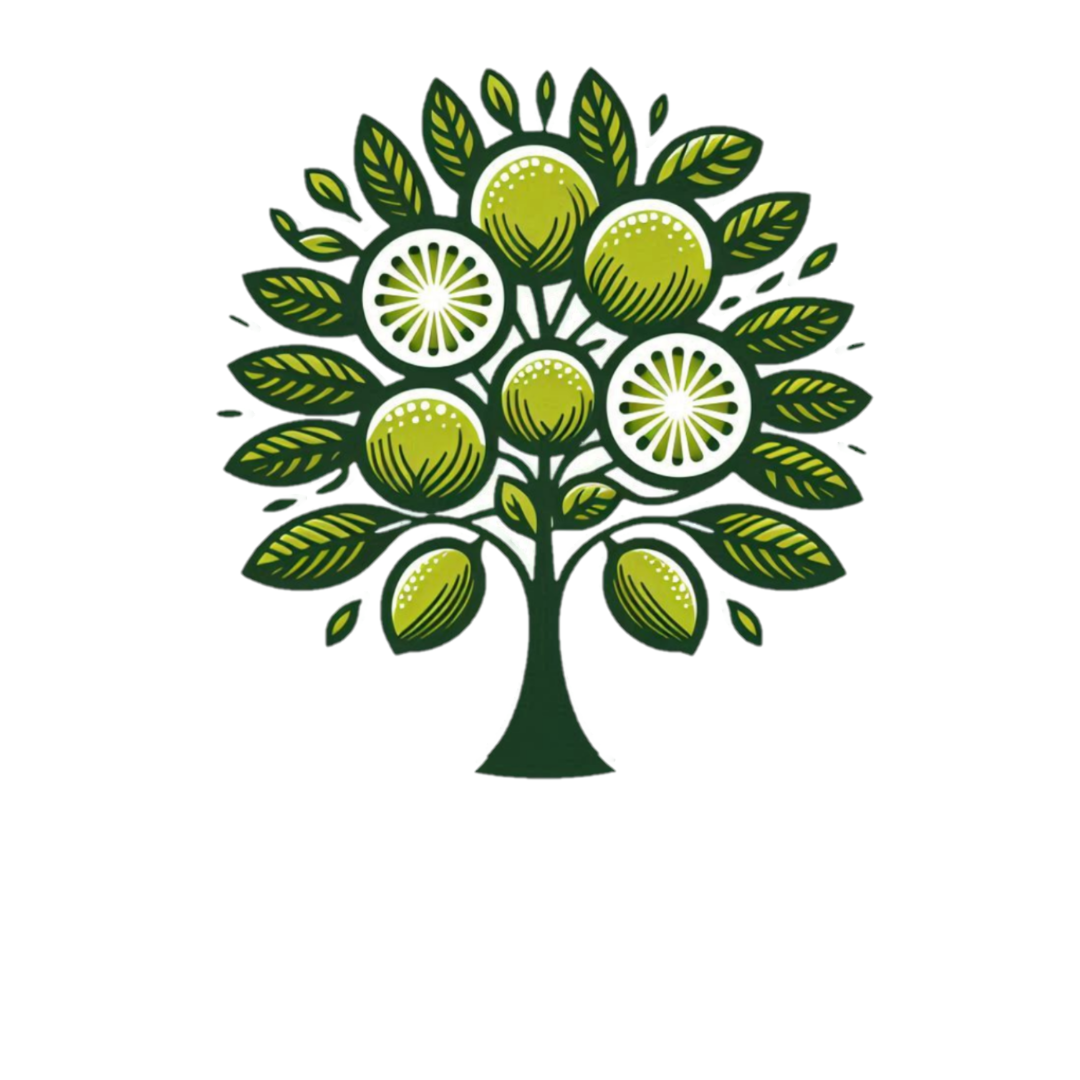
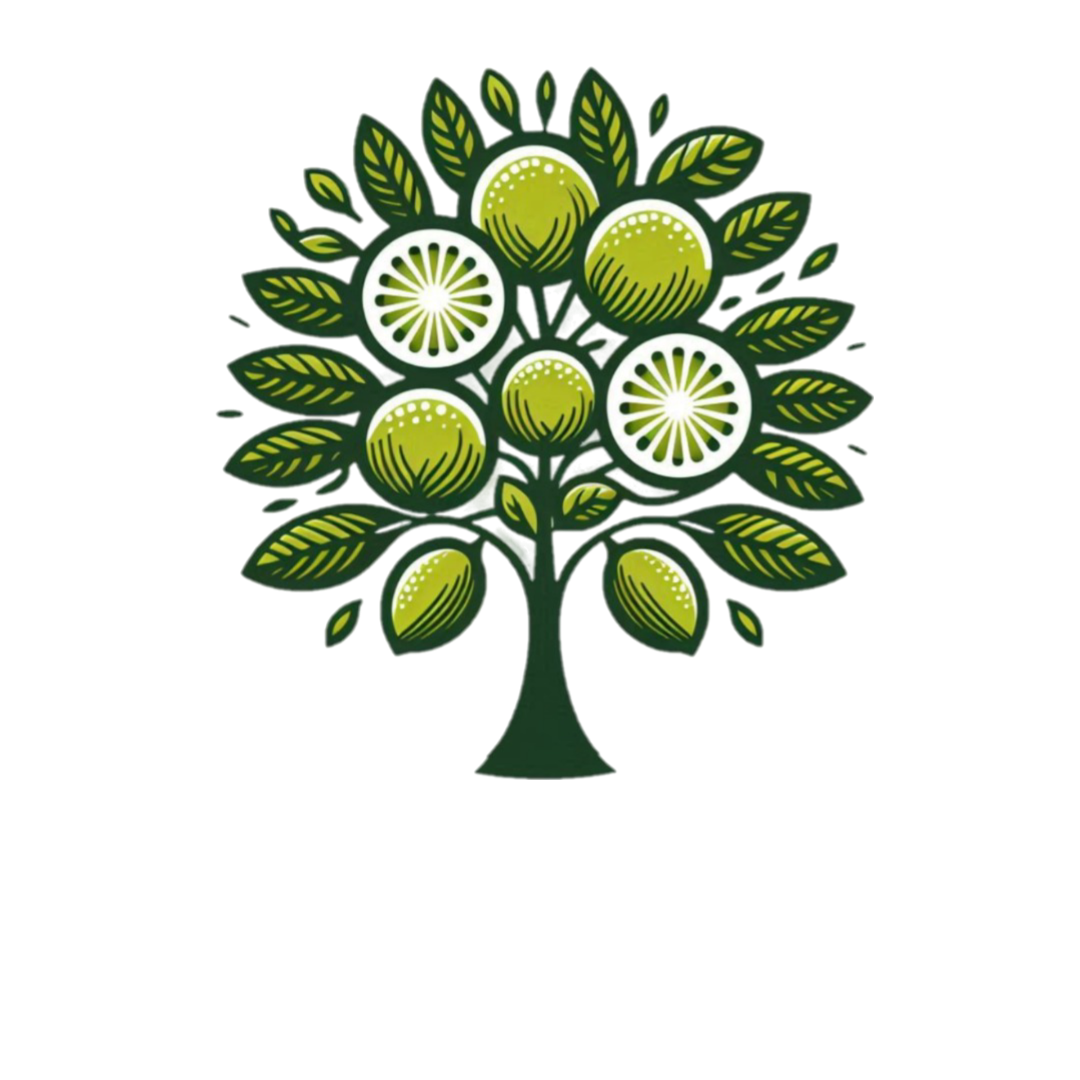
changing all images to transparent png and adding font roboto and background color

diff --git a/index.html b/index.html
@@ -5,17 +5,31 @@
 	<meta name="viewport" content="width=device-width, initial-scale=1.0">
 	<link rel="icon" type="image/x-icon" href="./static/favicon.ico">
 	<script src="https://cdn.tailwindcss.com"></script>
+	<!-- Include Google Fonts -->
+  <link href="https://fonts.googleapis.com/css2?family=Roboto:wght@400;700&display=swap" rel="stylesheet">
+  <!-- Inline Tailwind Configuration for Example -->
+  <style>
+    @import url('https://fonts.googleapis.com/css2?family=Roboto:wght@400;700&display=swap');
+  </style>
+  <script>
+    tailwind.config = {
+      theme: {
+        extend: {
+          fontFamily: {
+            roboto: ['Roboto', 'sans-serif'],
+          },
+        },
+      },
+    }
+  </script>
 	<title>icitrus</title>
 </head>
-<body>
+<body class="font-roboto bg-[#F2F2F2]">
 	<nav class="bg-gradient-to-r from-[#1E4023] to-[#BABF24]">
-		<!-- <div class="flex justify-center lg:justify-start">
-			<img src="./static/1noBackground.png" alt="icitrus logo" class="max-w-16">
-		</div> -->
 		<div class="max-w-7xl mx-auto flex justify-between items-center">
       <!-- Logo -->
       <div class="justify-center">
-			<img src="./static/1noBackground.png" alt="icitrus logo" class="max-w-16">
+				<img src="./static/1.png" alt="icitrus logo" class="max-w-16">
       </div>
   
       <!-- Burger Menu Icon (visible on mobile) -->
